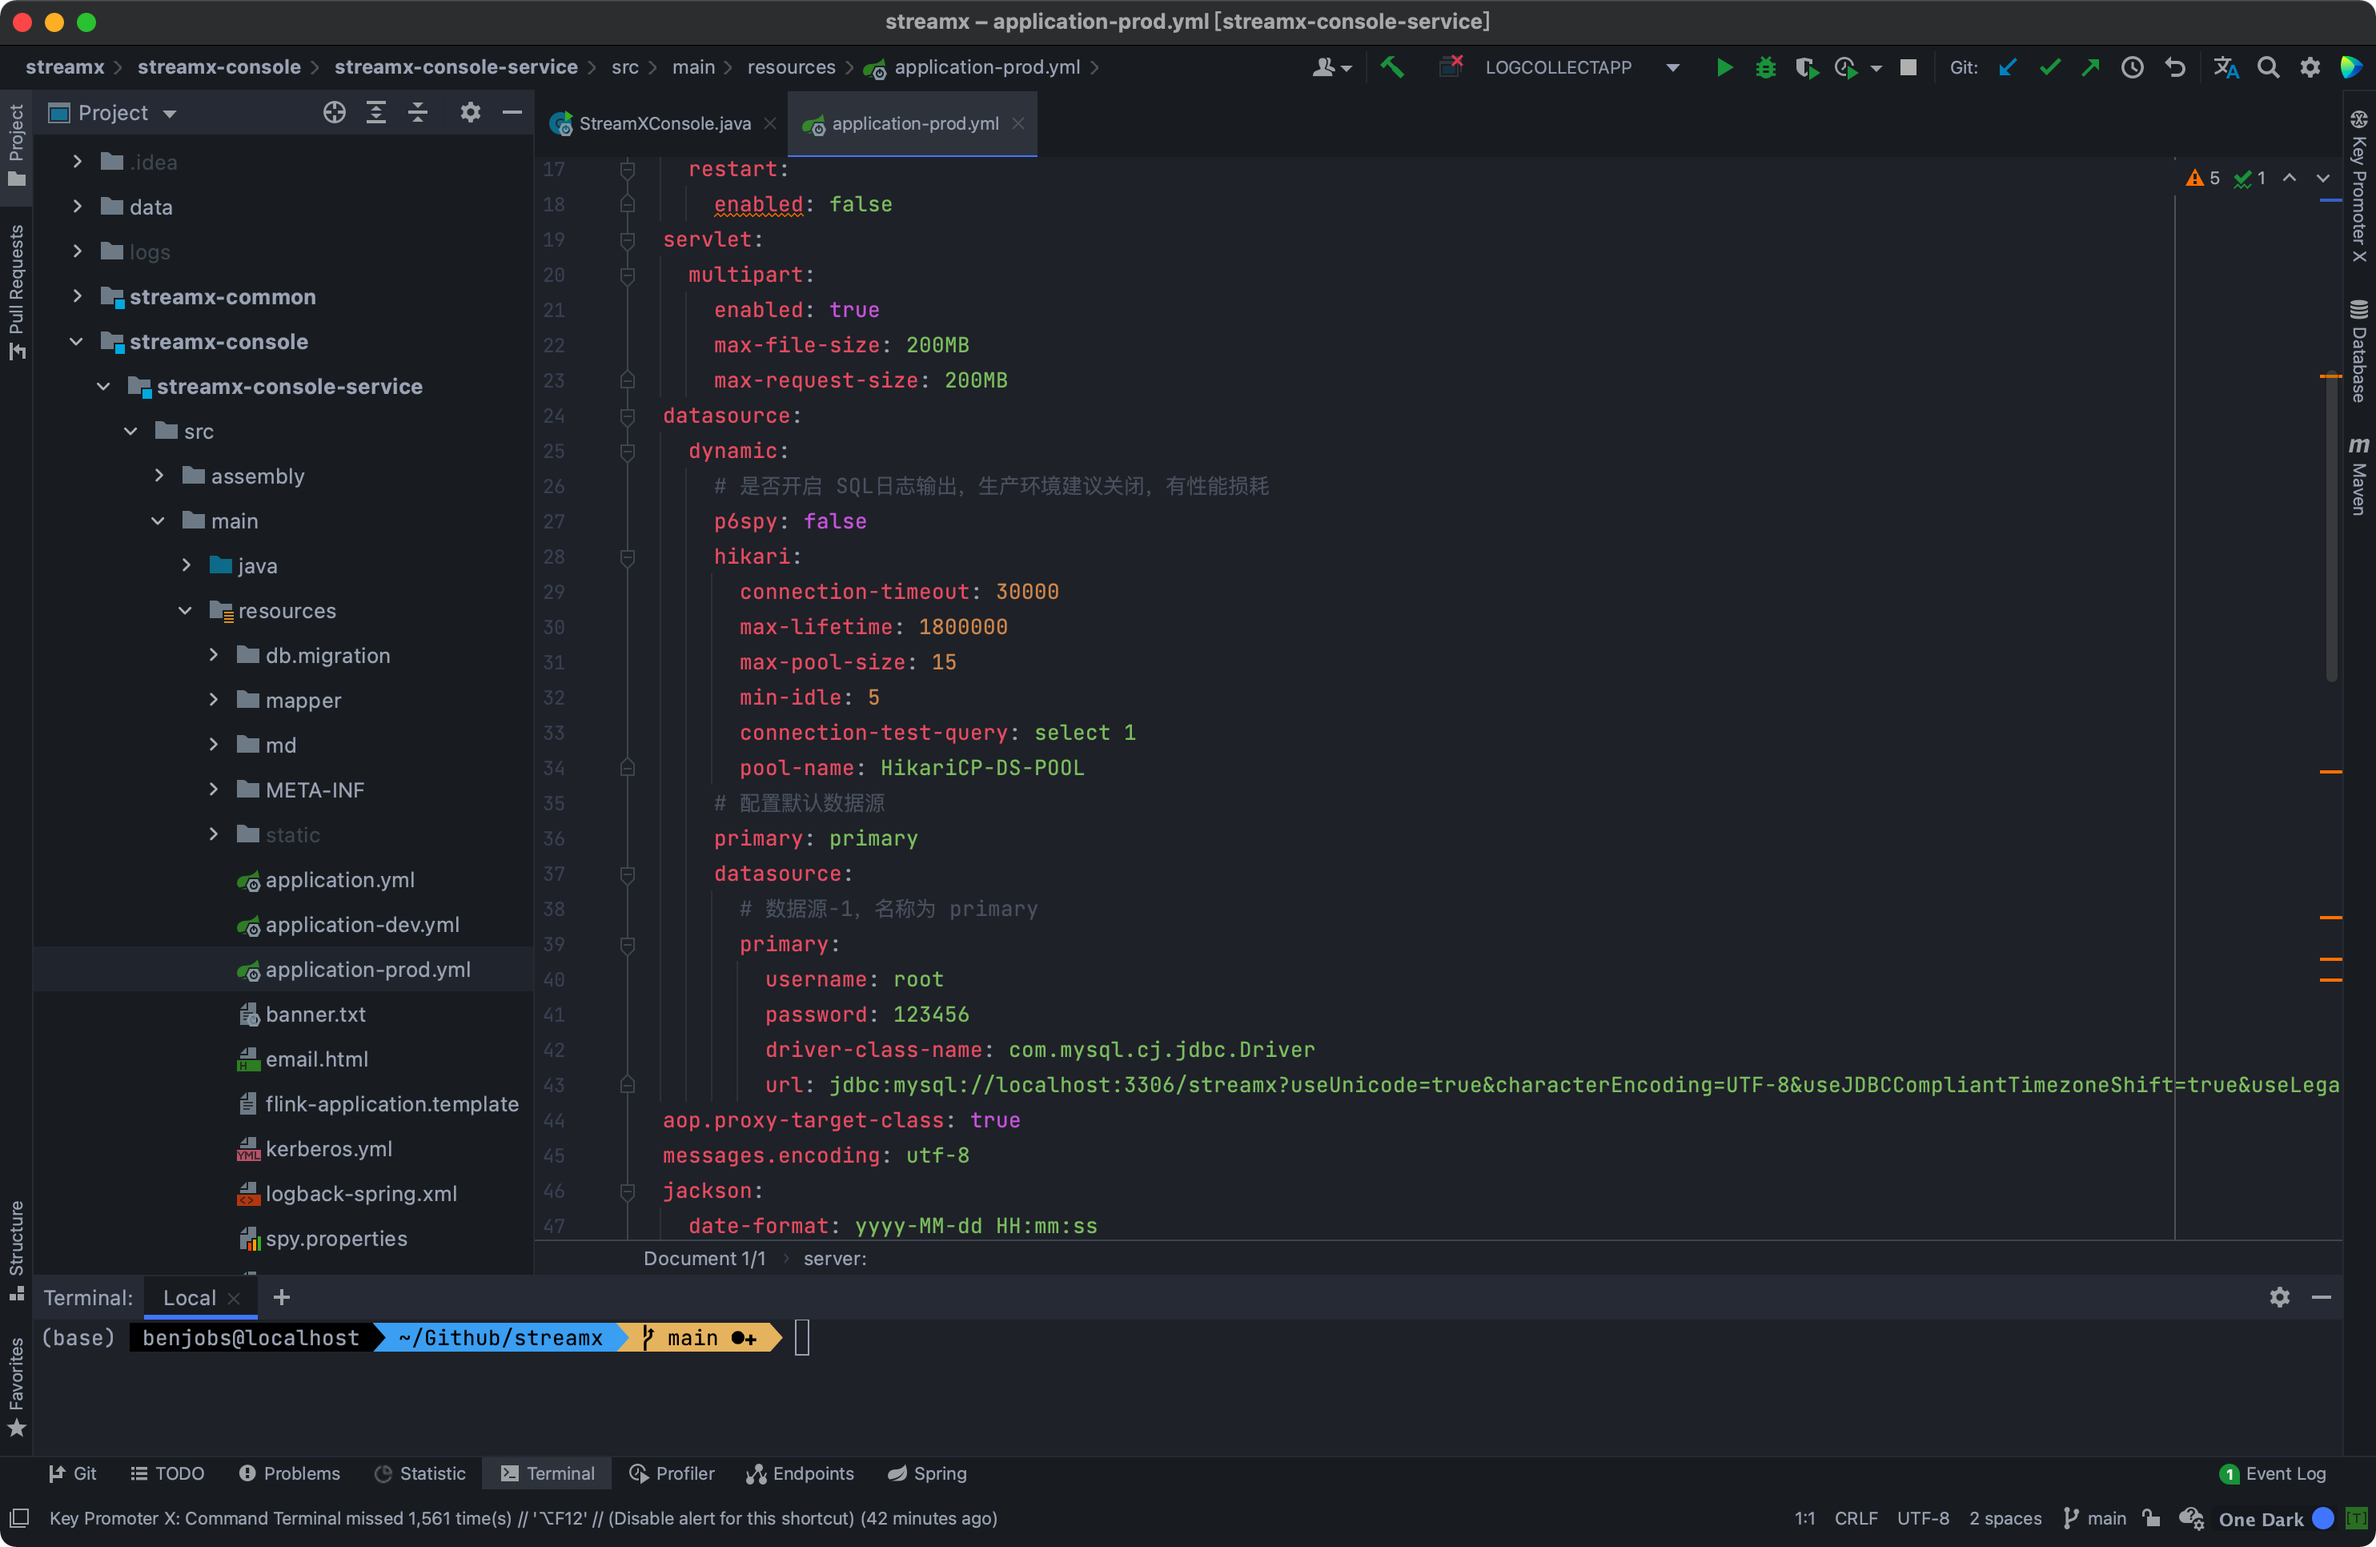
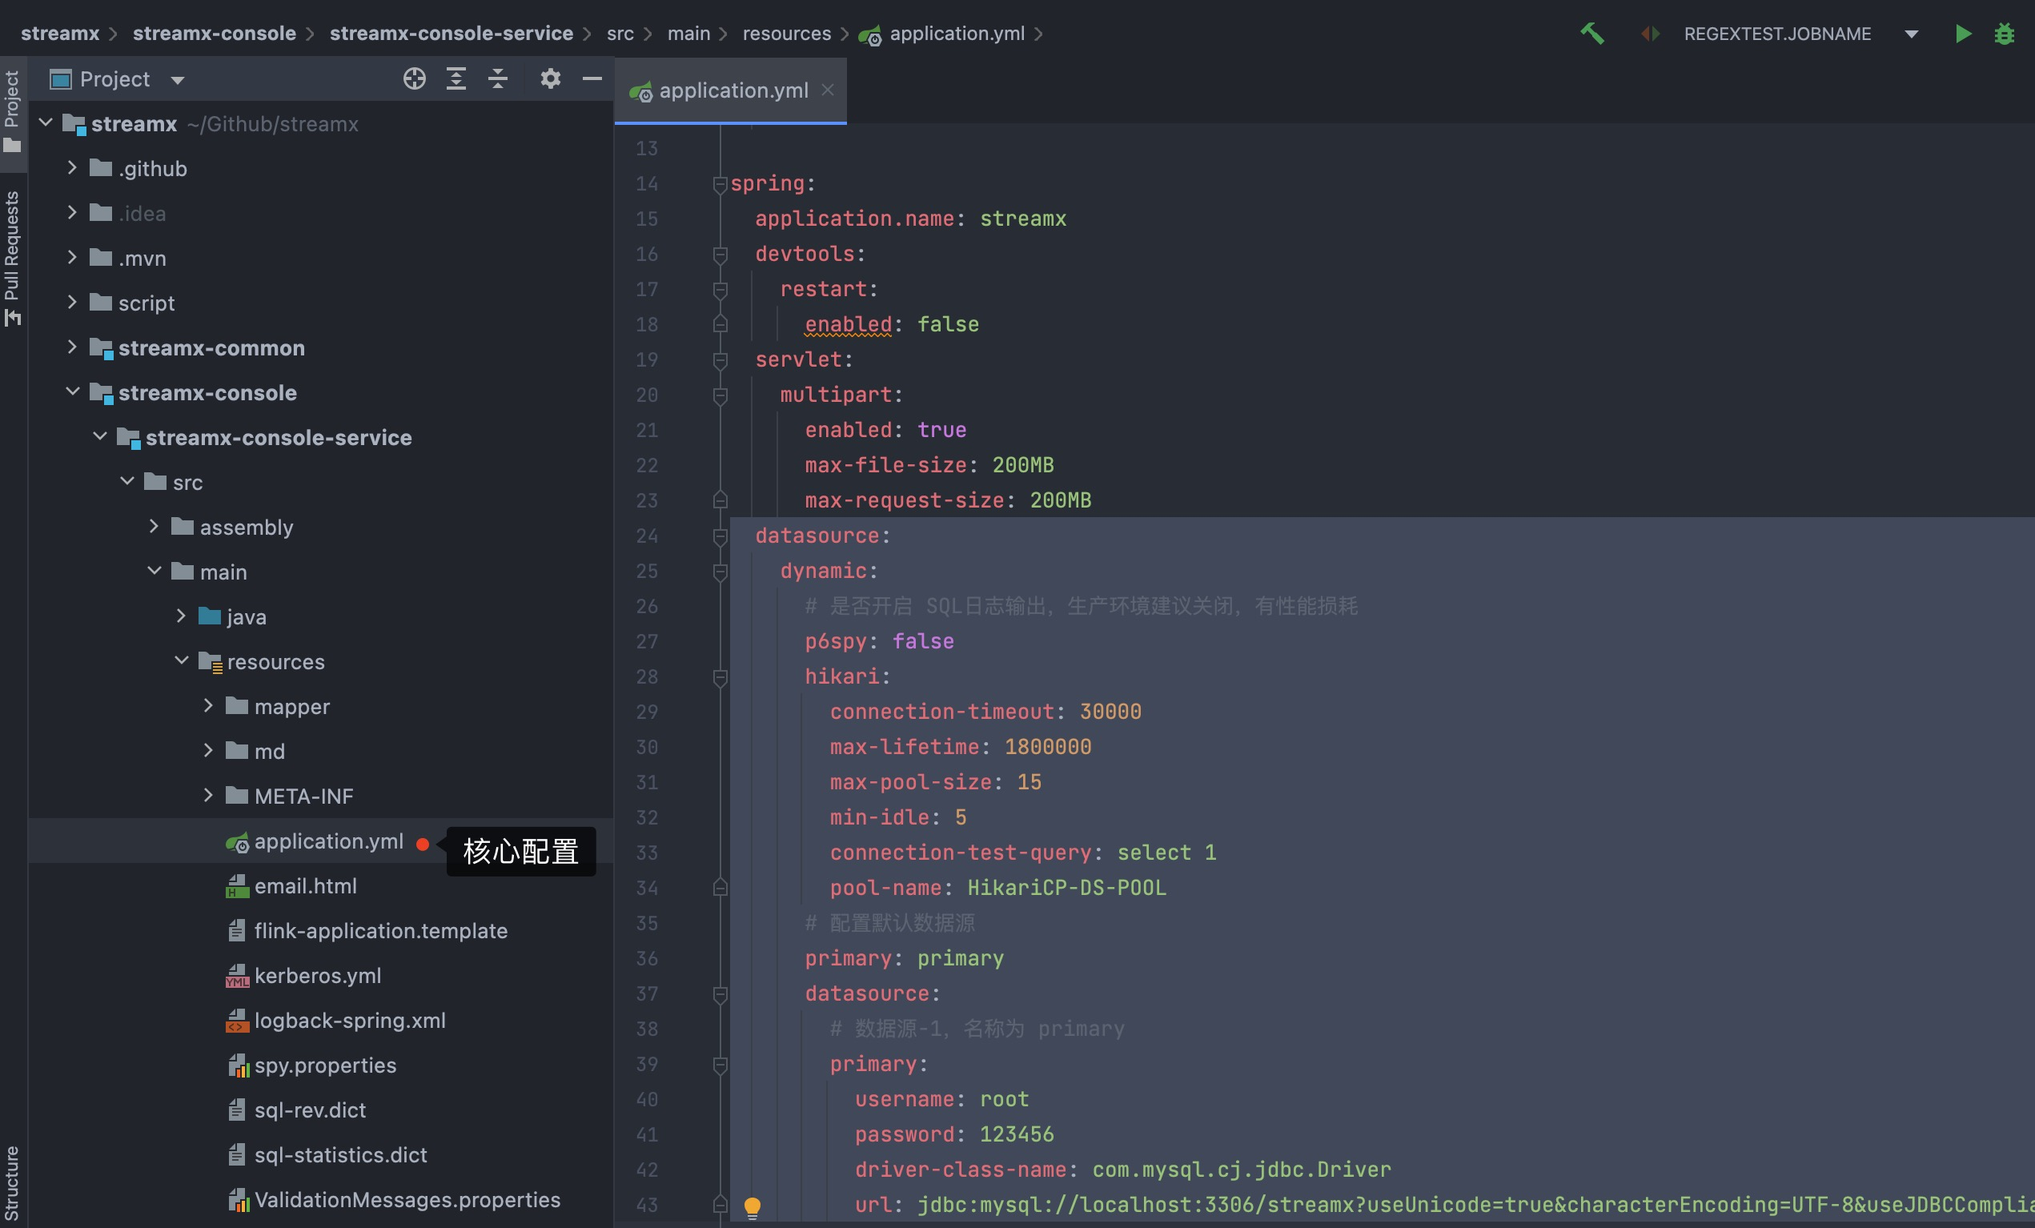
[hotfix] document update

diff --git a/docs/components/data.js b/docs/components/data.js
@@ -101,7 +101,7 @@ export default {
         {name: 'JAVA', version: '1.8+', required: true, other: null},
         {name: 'Maven', version: '3+', required: true, other: '部署机器必须安装Maven,且配置好环境变量(项目编译会用到)'},
         {name: 'Node.js', version: '', required: true, other: 'NodeJs相关环境'},
-        {name: 'Flink', version: '1.12.0+', required: true, other: '版本必须是1.12.x或以上版本'},
+        {name: 'Flink', version: '1.12.0+', required: true, other: '版本必须是1.12.x或以上版本,scala版本必须是2.11'},
         {name: 'Hadoop', version: '2+', required: false, other: '可选,如果on yarn则需要hadoop环境,并且配置好相关环境变量'},
         {name: 'MySQL', version: '5.6+', required: false, other: '部署机器或者其他机器安装MySQL'},
         {name: 'Python', version: '2+', required: false, other: '可选,火焰图功能会用到Python'},

diff --git a/docs/user-guide/development.md b/docs/user-guide/development.md
@@ -104,7 +104,6 @@ streamx-console-service-${version}
 │    ├── yaml.sh
 ├── conf
 │    ├── application.yaml
-│    ├── application-prod.yml
 │    ├── flink-application.template
 │    ├── logback-spring.xml
 │    └── ...
@@ -120,13 +119,13 @@ streamx-console-service-${version}
 
 #### 配置
 
-用 IDE 导入刚从 git 上 clone 下来的 StreamX 源码 ( 推荐使用 `IntelliJ IDEA` ) ,进入到 `resources` 下，编辑 application-prod.xml,找到 `datasource`,修改下 jdbc 的连接信息，具体可参考安装部署章节 [修改配置](http://www.streamxhub.com/zh/doc/console/deploy/#%E4%BF%AE%E6%94%B9%E9%85%8D%E7%BD%AE) 部分
+用 IDE 导入刚从 git 上 clone 下来的 StreamX 源码 ( 推荐使用 `IntelliJ IDEA` ) ,进入到 `resources` 下，编辑 application.xml,找到 `datasource`,修改下 jdbc 的连接信息，具体可参考安装部署章节 [修改配置](http://www.streamxhub.com/zh/doc/console/deploy/#%E4%BF%AE%E6%94%B9%E9%85%8D%E7%BD%AE) 部分
 
-<img src="/doc/image/console_conf.jpg" />
+<img src="/doc/image/streamx_conf.jpg" />
 
 如果你要连接的目标集群开启了 kerberos 认证，则需要配置 kerberos 信息，在 `resources` 下找到 `kerberos.xml` 配置上相关信息即可，默认 kerberos 是关闭状态，要启用需将 `enable` 设置为 true, 如下:
 
-```yaml
+```yml
 security:
   kerberos:
     login:
@@ -152,7 +151,8 @@ java:
 ```
 <br></br>
 如果开发机使用的 jdk 版本是 jdk1.8 以上版本， 则需要加上如下参数: <br></br>
-```yaml
+
+```shell
 --add-opens java.base/jdk.internal.loader=ALL-UNNAMED --add-opens jdk.zipfs/jdk.nio.zipfs=ALL-UNNAMED
 ```
 
@@ -169,30 +169,23 @@ java:
 
 streamx web 前端部分采用 nodejs + vue 开发，因此需要在机器上按照 node 环境，完整流程如下:
 
-#### 修改请求 URL
+#### 修改配置
 
-由于是前后端分离项目，前端需要知道后端 ( streamx-console ) 的访问地址，才能前后配合工作，因此需要后端的 URL,具体位置在:
-`streamx-console/streamx-console-webapp/src/api/baseUrl.js`
+由于是前后端分离项目，前端需要知道后端 ( streamx-console ) 的访问地址，才能前后配合工作，因此需要更改Base API,具体位置在:
+`streamx-console/streamx-console-webapp/.env.development`
+
+![web配置](/doc/image/streamx_websetting.png)
 
 配置默认如下:
 
 ```javascript
-export function baseUrl() {
-    let url = ''
-    switch (process.env.NODE_ENV) {
-        //混合打包 ( production,不用配置，maven 编译项目阶段-Denv=prod 自动将环境参数透传到这里 )
-        case 'production':
-            url = (arguments[0] || null) ? (location.protocol + '//' + location.host) : '/'
-            break
-        //开发测试阶段采用前后端分离，这里配置后端的请求 URI
-        case 'development':
-            url = 'http://localhost:10000'
-            break
-    }
-    return url
-}
+VUE_APP_PORT = 10003
+VUE_APP_BASE_API = http://localhost:10000
 ```
-将 `development` 下的 URL 连接改为后端的 URI 即可
+
+参数说明:
+* `VUE_APP_PORT`: 前端项目启动的端口
+* `VUE_APP_BASE_API`: 请求后端的url地址
 
 #### 编译项目
 
